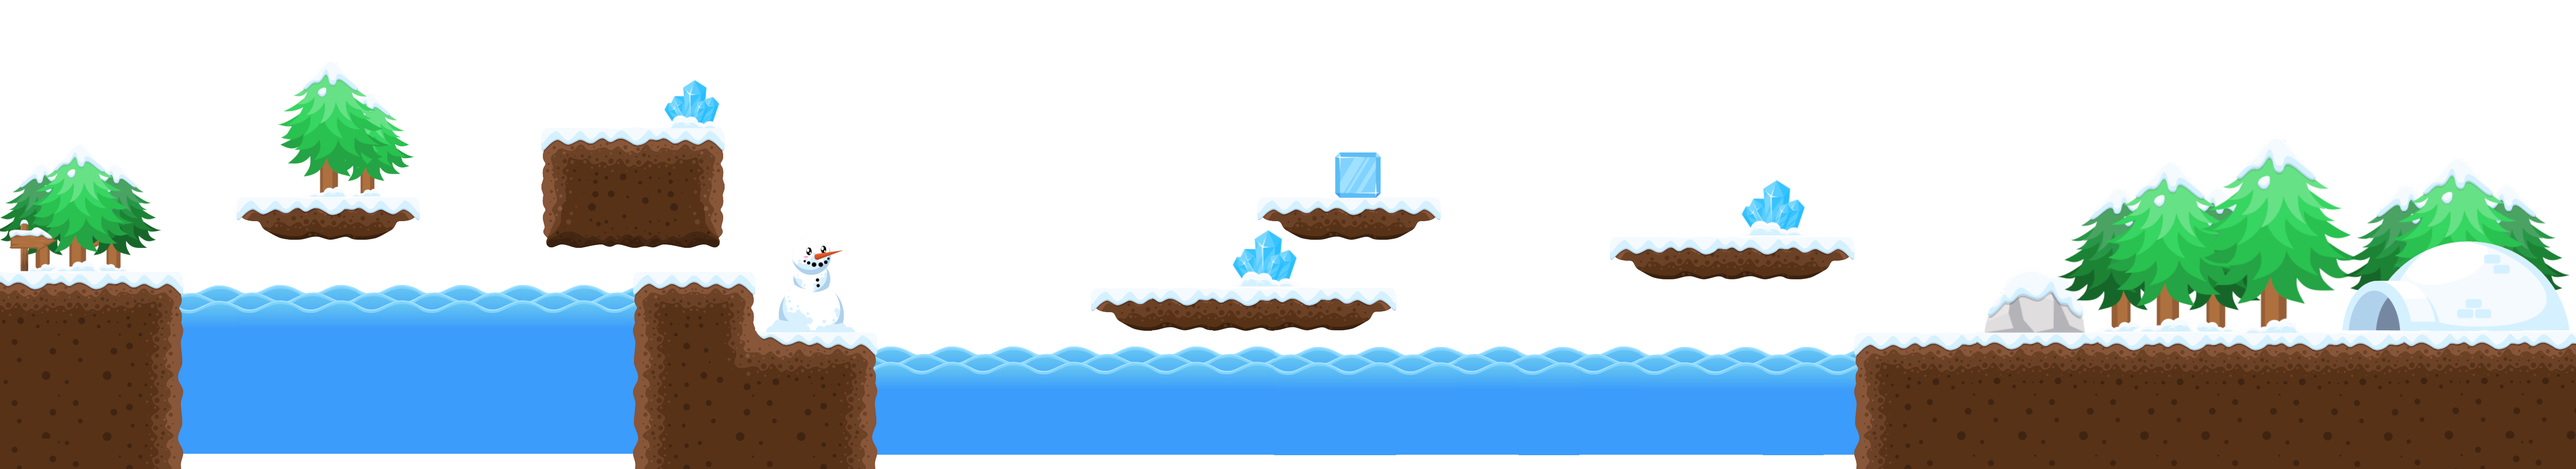
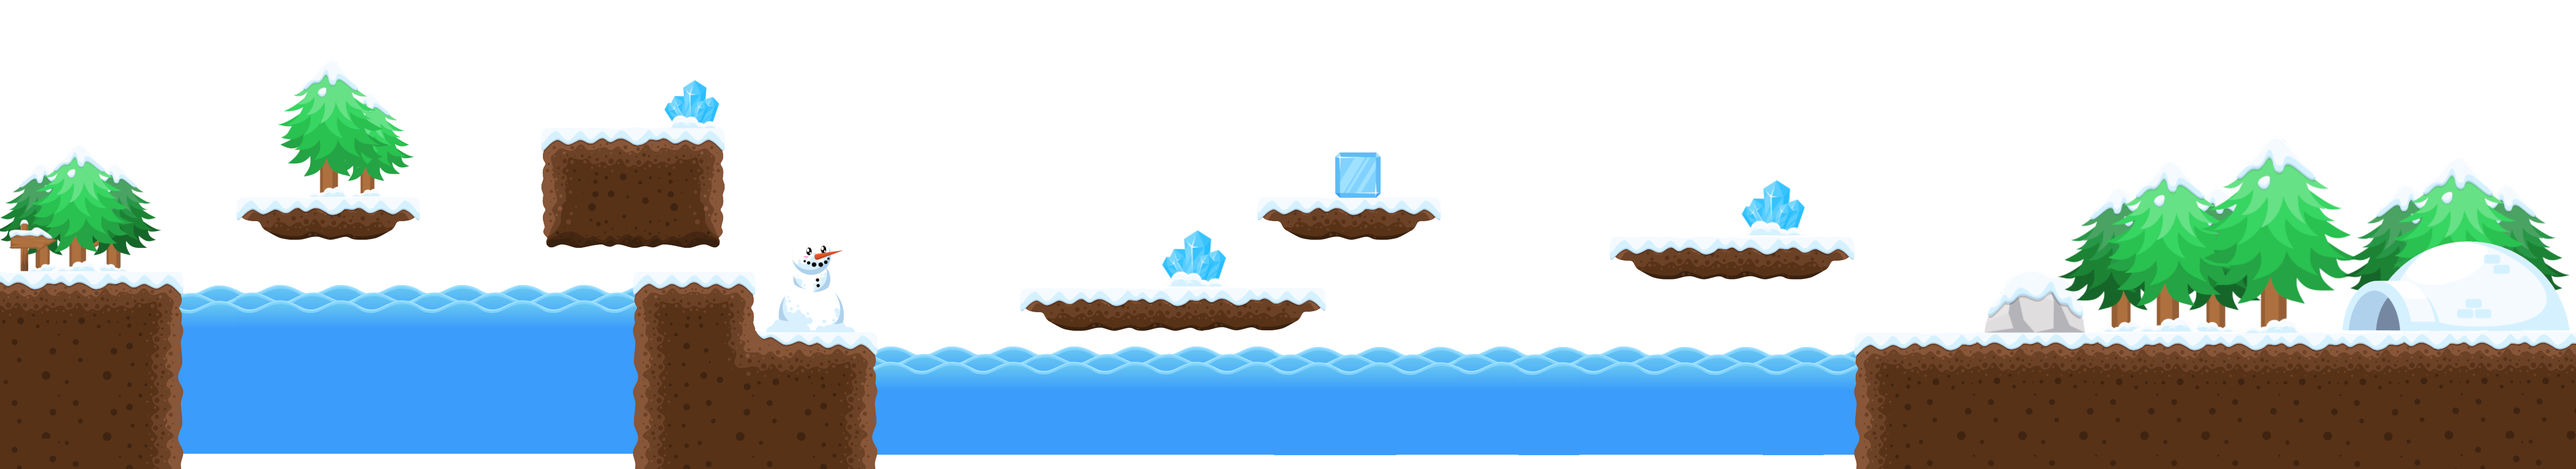
level 3 on the way

Changed region(s): [[0.3733, 0.4878, 0.56, 0.7012]]

diff --git a/Header/levels.hpp b/Header/levels.hpp
@@ -5,7 +5,7 @@ float x = 200;
 float y = 200;
 int ground = 564;
 int water = 760+50;
-int level = 1;
+int level = 3;
 
 void updateGround(){
     if(level == 1){
@@ -19,12 +19,14 @@ void updateGround(){
         }
         else ground = water;
     }
-    else if(level == 2){
-        if(x > 0 && x <= 500 && y <= 564) ground = 564;
-        else if(x >= 835 && x <= 1349 && y <= 470) ground = 470;
-        else if(x >= 1505 && x <= 1900 && y <= 143+142) ground = 143+142;
-        else if(x >= 1935 && x <= 2320 && y <= 143+336) ground = 143+336;
-        else if(x > 2320 && x <= 3010 && y <= 143+433) ground = 143+433;
+    else if(level == 3){
+        if(x > 0 && x <= 395 && y <= 460) ground = 460;
+        else if(x >= 490 && x <= 885 && y <= 315) ground = 315;
+        else if(x >= 1119 && x <= 1520 && y <= 170) ground = 170;
+        else if(x >= 1320 && x <= 1584 && y <= 470 && y > 170) ground = 470;
+        else if(x >= 1585 && x <= 1840 && y <= 590 && y > 480) ground = 590;
+        else if(x > 2130 && x <= 2780 && y <= 500 && y > 320) ground = 500;
+        else if(x > 2630 && x <= 3025 && y <= 320) ground = 320;
         else ground = water;
     }
 }
